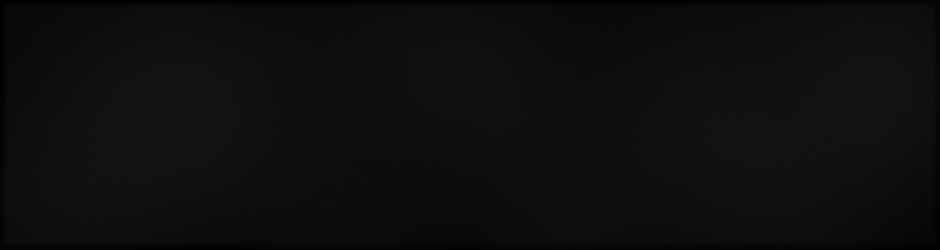
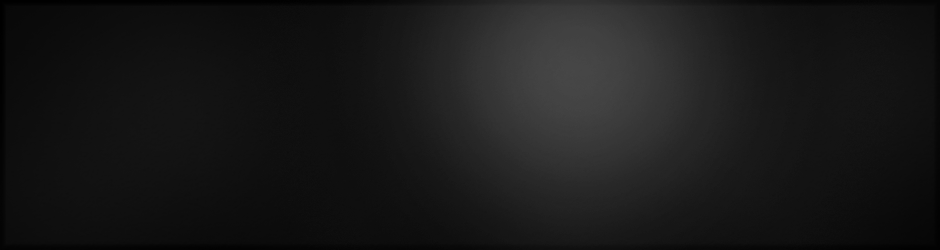
more bg work

Changed region(s): [[0.4628, 0.0, 0.7713, 0.784]]

diff --git a/public/stylesheets/application.css b/public/stylesheets/application.css
@@ -144,7 +144,7 @@ h2 a.small_text {
   color: #00467F;
 }
 .background_blue {
-  background: #00467F;
+  background: #00467F url('../images/sub_box_inner_blue.png') no-repeat;
 }
 .bluegrey {
   color: #88d1d0;
@@ -740,7 +740,7 @@ img.banner_scroll.r {
 /*********************************************/
 /******************SUBBOXES*******************/
 #sub_boxes {
-  border-color:#222 #444;
+  border-color:#111 #666;
   border-style:solid;
   border-width:1px;
   width: 938px;
@@ -759,9 +759,13 @@ img.banner_scroll.r {
   margin-left: 10px;
 }
 .cover_flow_sub_box {
+  border-color:#111 #666;
+  border-style:solid;
+  border-width:1px;
   margin-left: 10px;
+  padding: 1px;
   width: 440px;
-  min-height: 200px;
+  height: 200px;
 }
 .inner_sub_box {
   margin-left: 10px;
